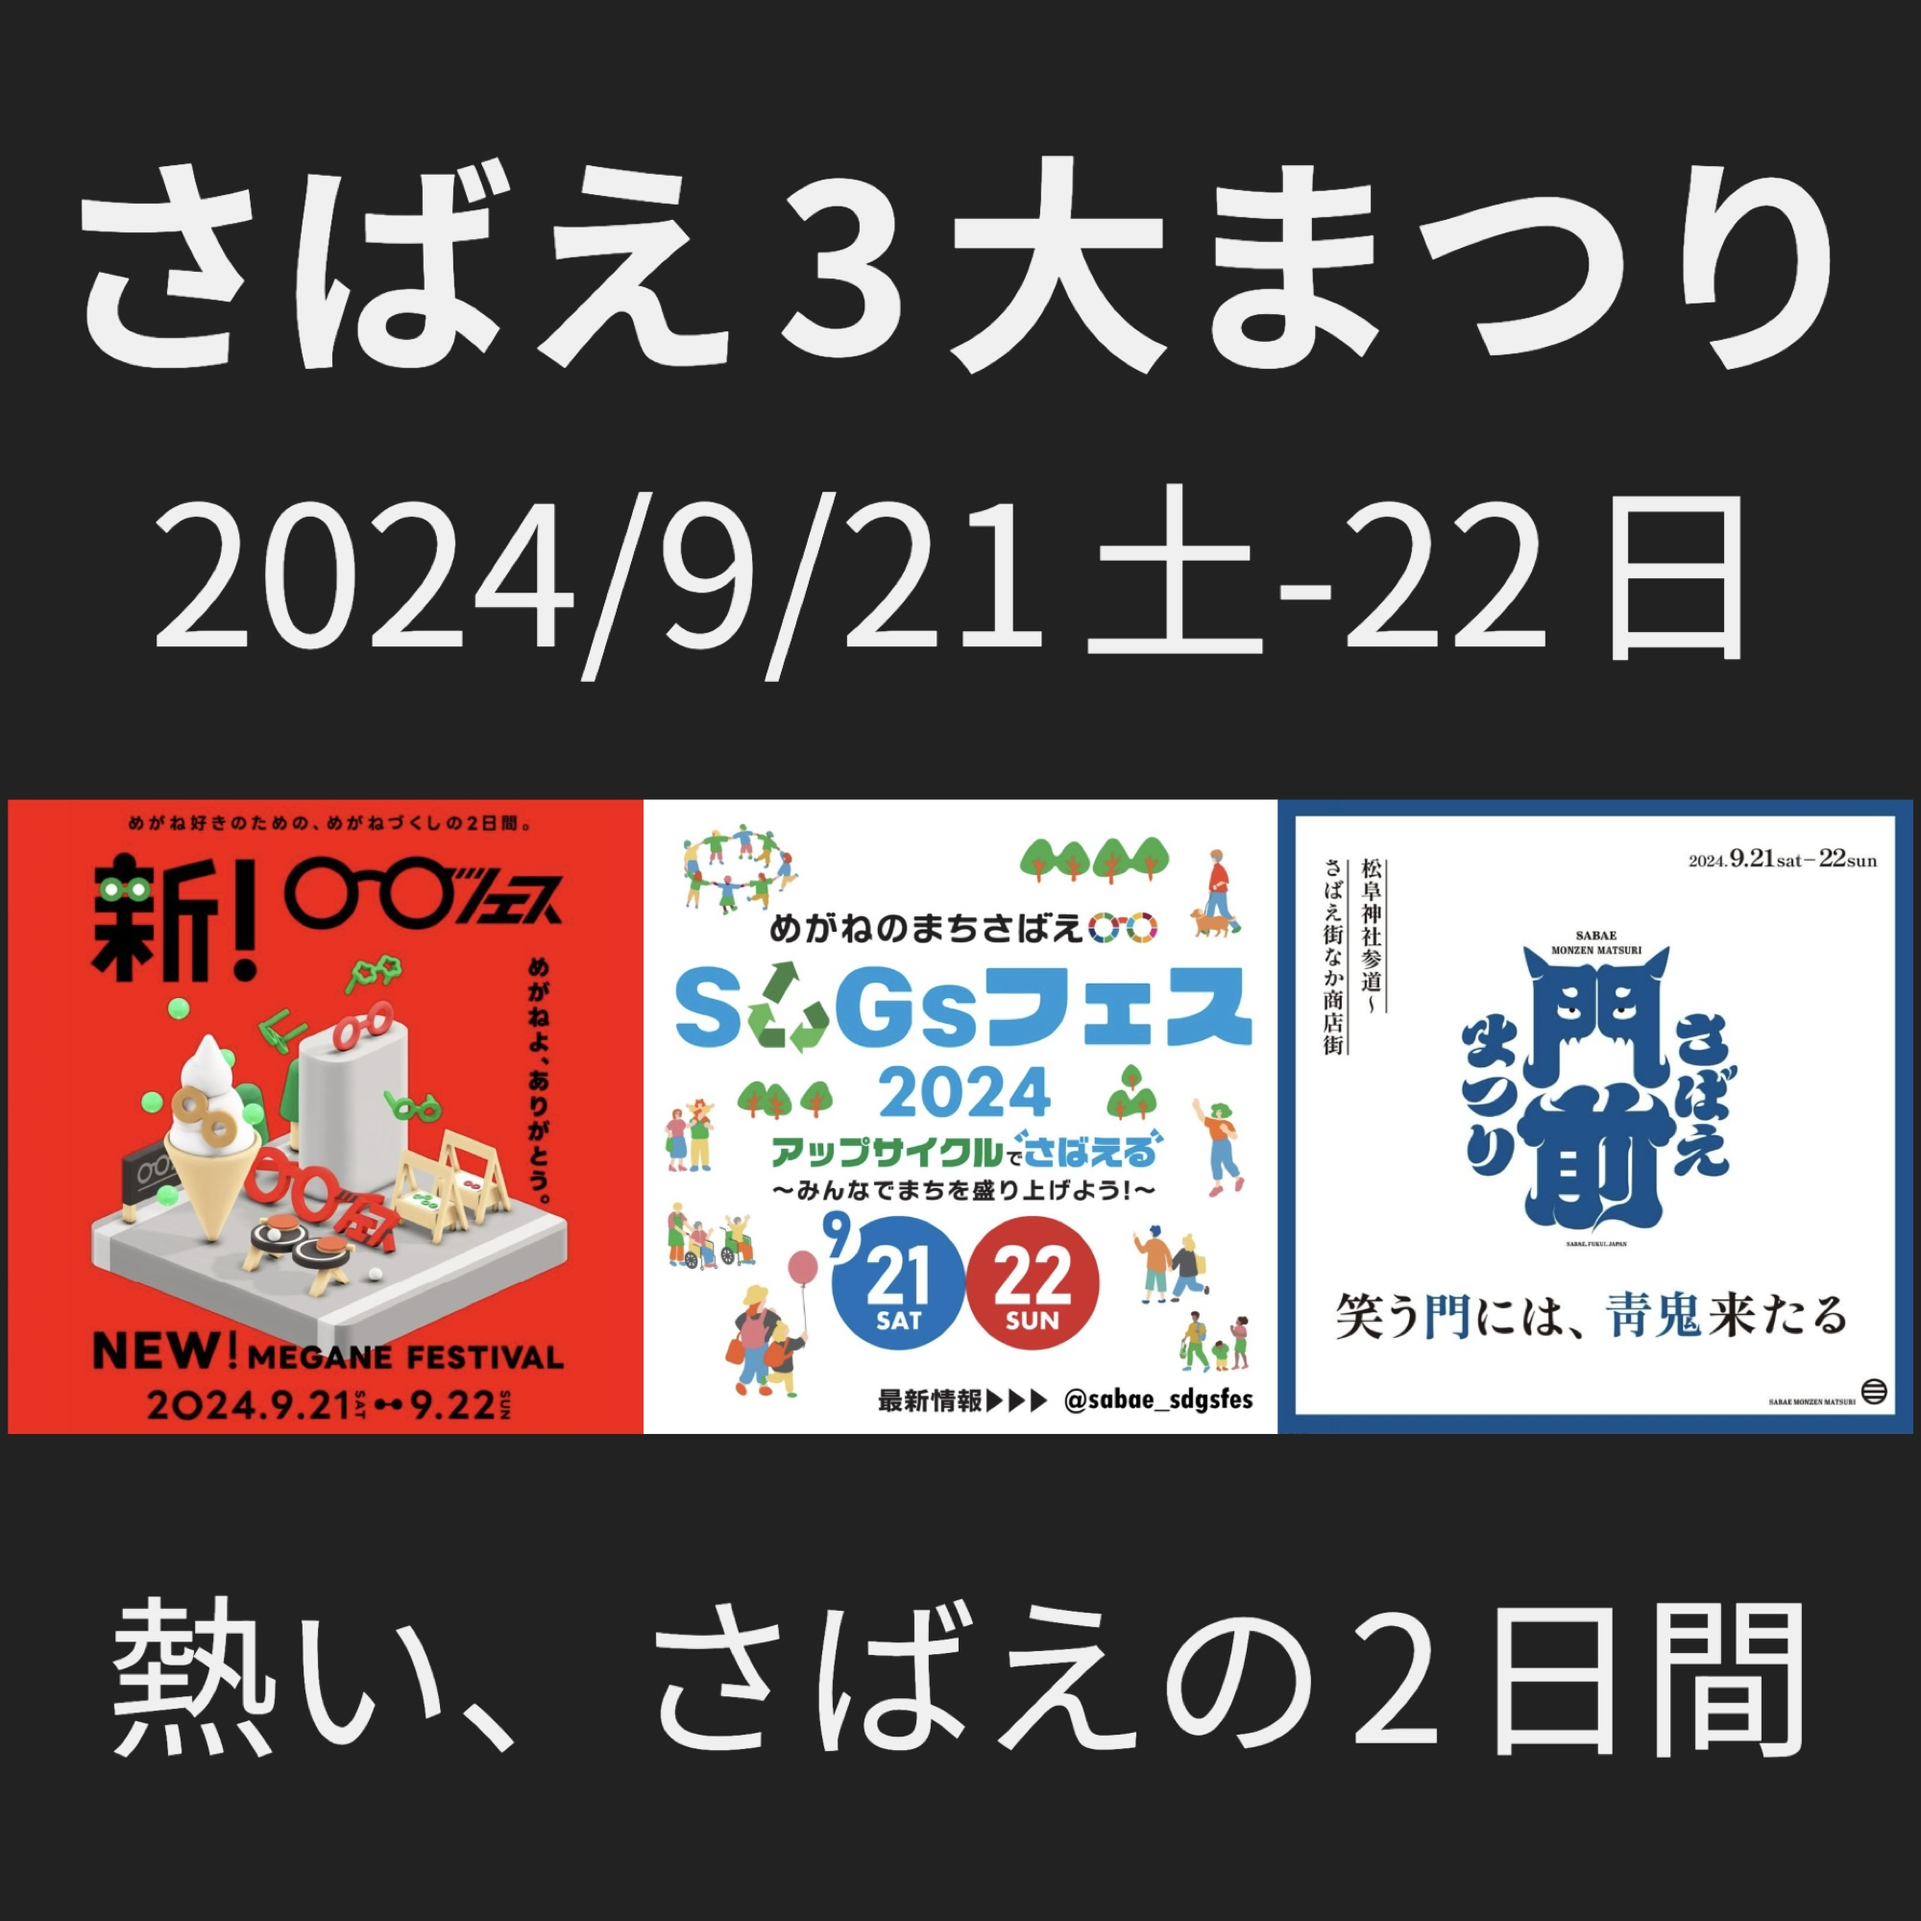
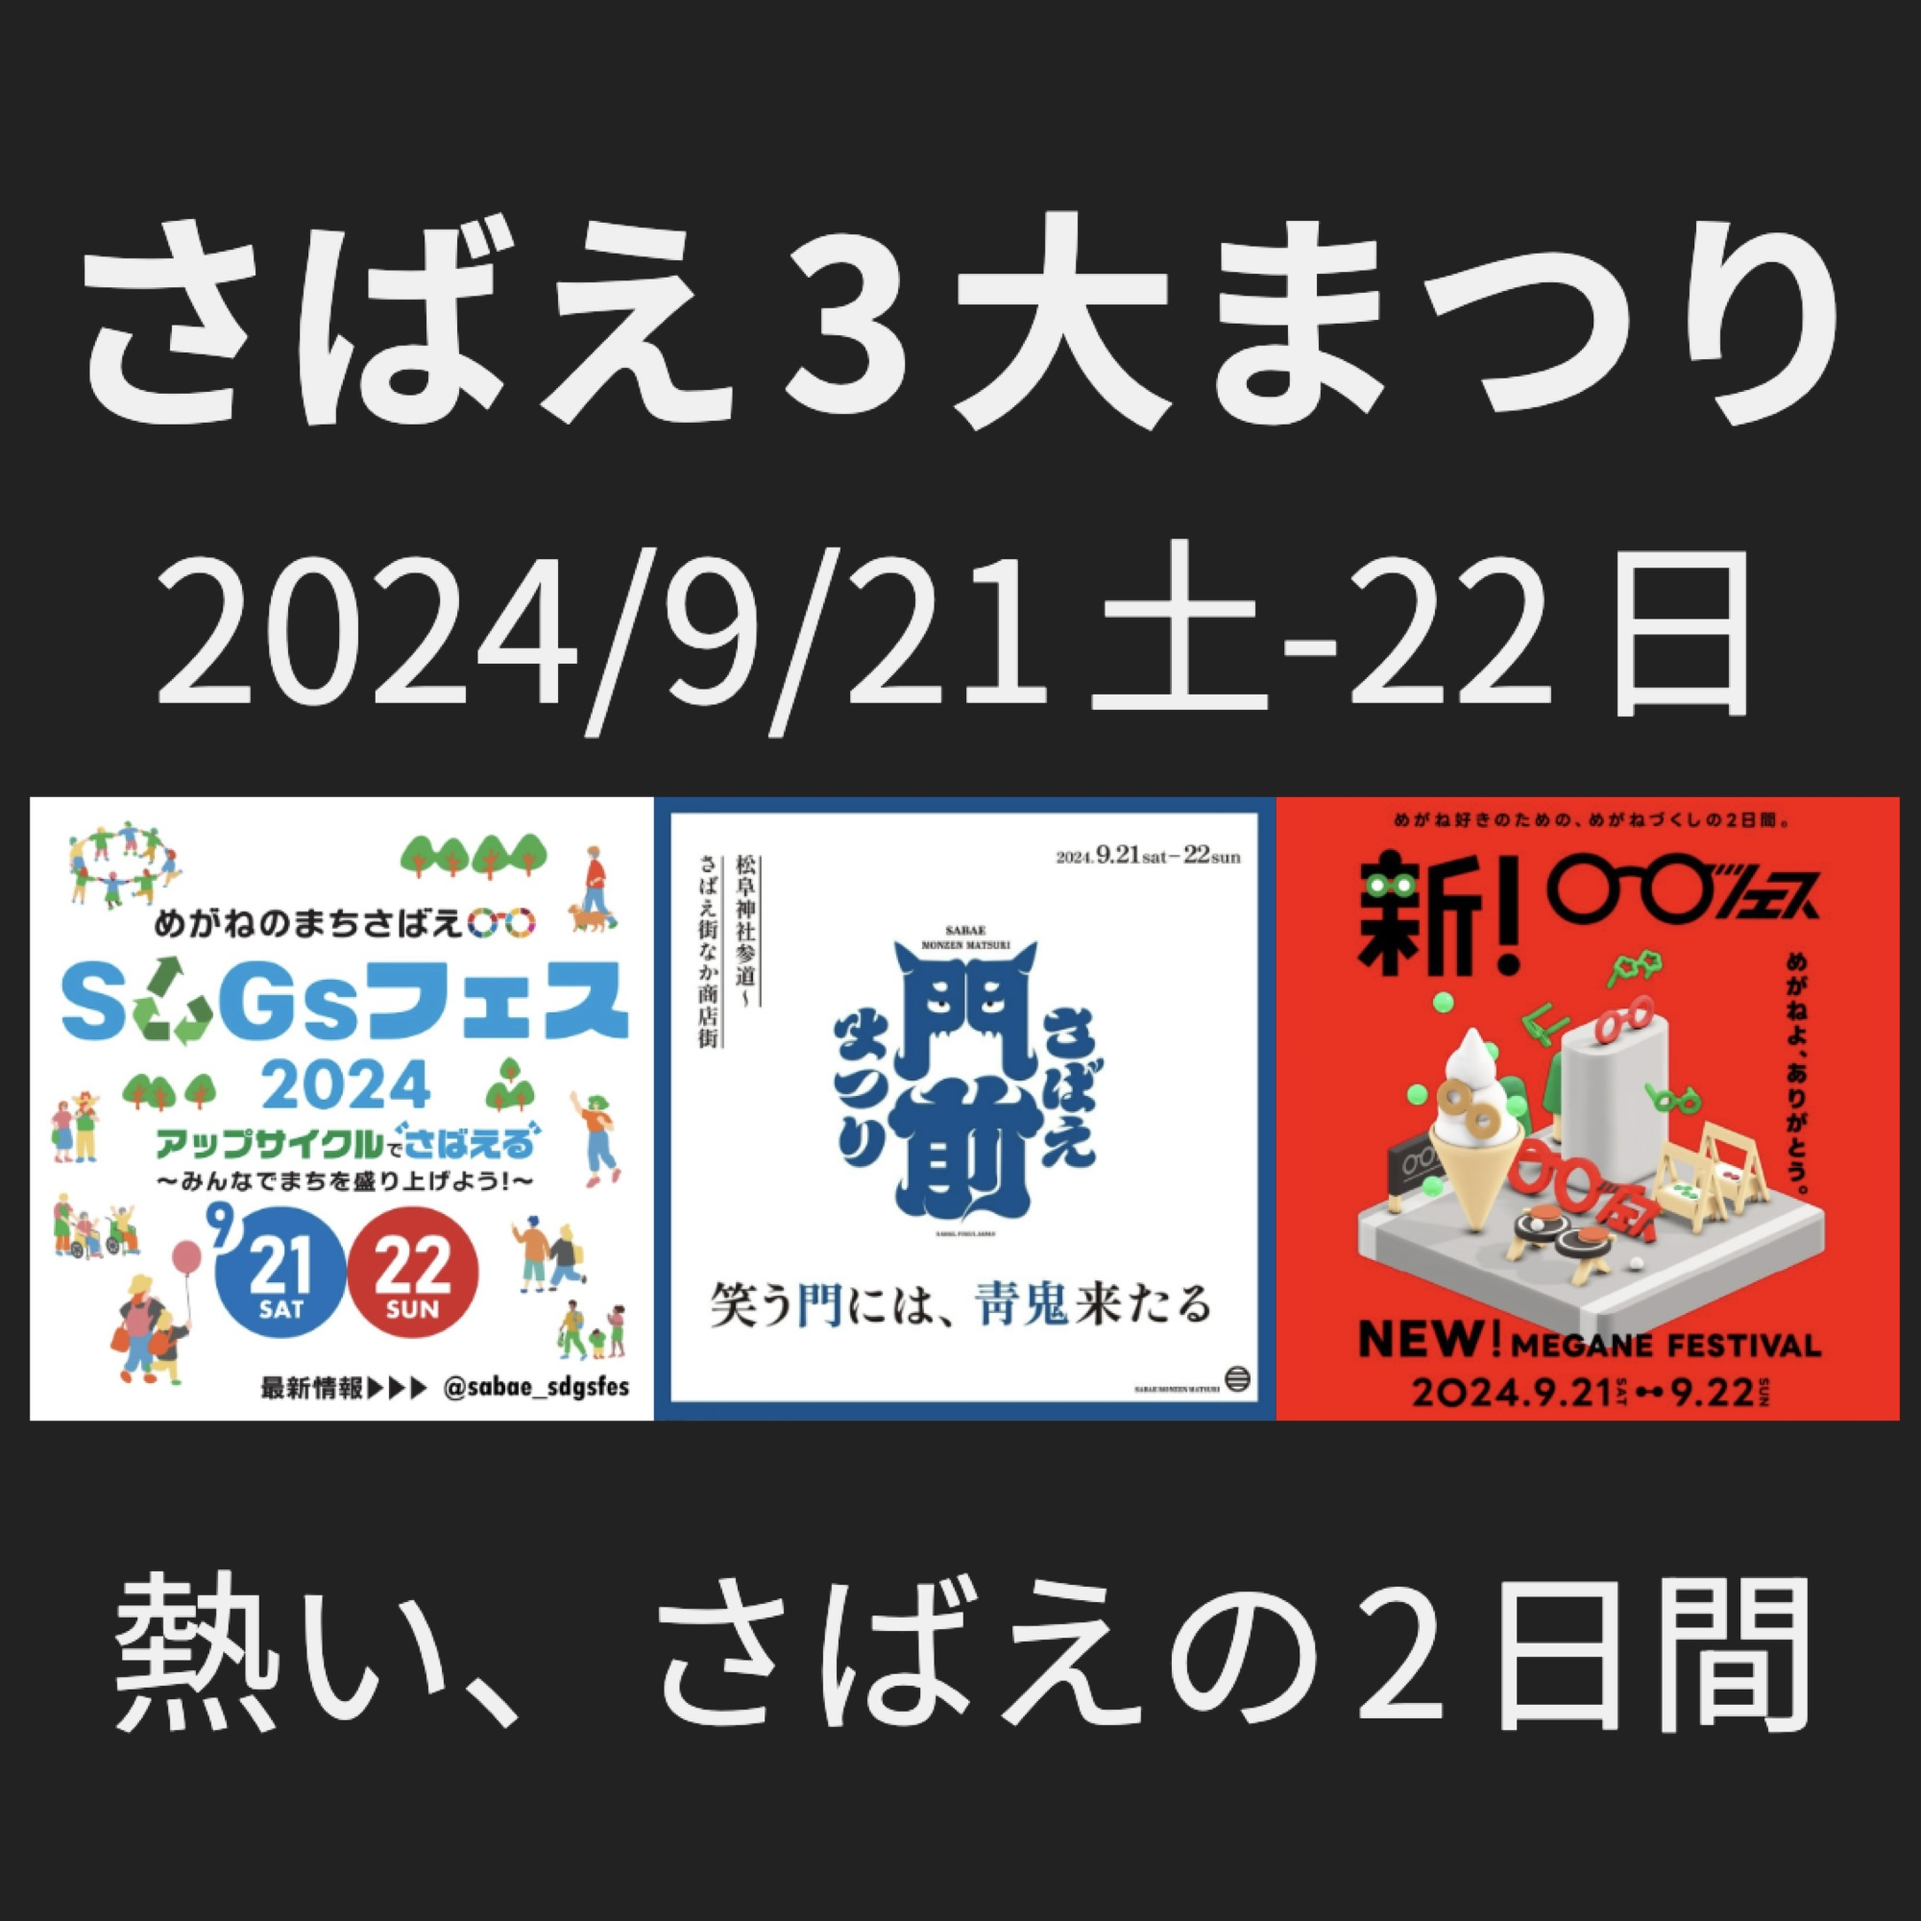
add booth opendata

diff --git a/index.html b/index.html
@@ -15,12 +15,21 @@
 <div class=date>2024/9/21土-22日</div>
 
 <div class=divimgs>
-  <a target=_blank href=https://www.instagram.com/meganefes/><img src=meganefes.jpg></a>
-  <a target=_blank href=https://www.instagram.com/sabae_sdgsfes/><img src=sdgsfes.jpg></a>
-  <a target=_blank href=https://www.instagram.com/sabaemonzenmatsuri/><img src=monzenfes.jpg></a>
+  <a target=_blank href=https://www.instagram.com/sabae_sdgsfes/><img src=sdgsfes.jpg title=めがねのまちさばえSDGsフェス></a>
+  <a target=_blank href=https://www.instagram.com/sabaemonzenmatsuri/><img src=monzenfes.jpg title=さばえ門前まつり></a>
+  <a target=_blank href=https://www.instagram.com/meganefes/><img src=meganefes.jpg title=めがねフェス></a>
 </div>
 
 <div class=footer>熱い、さばえの2日間</div>
+
+<script type="module" src="https://js.sabae.cc/csv-map.js"></script>
+<csv-map src="./index.csv" grayscale=true></csv-map>
+
+<!--
+<script type="module" src="https://code4sabae.github.io/js/csv-viewer.js"></script>
+<csv-viewer id=csvbooth></csv-viewer>
+-->
+<div id=divbooth></div>
 
 <div class=codefor><div>さばえ3大まつりをPRしよう！</div>
 <script type="module" src="https://js.sabae.cc/QRCode.js"></script>
@@ -30,6 +39,35 @@ website by <a href=https://github.com/code4sabae/fes.sabae.cc/>Code for Sabae</a
 </div>
 
 <script type="module">
+import { CSV } from "https://code4fukui.github.io/CSV/CSV.js";
+import { shuffle } from "https://js.sabae.cc/shuffle.js";
+import { ArrayUtil } from "https://js.sabae.cc/ArrayUtil.js";
+
+const index = await CSV.fetchJSON("./index.csv");
+const list = [];
+for (const item of index) {
+  const booth = await CSV.fetchJSON(item.booth);
+  //console.log(booth, item);
+  booth.forEach(i => {
+    i.fes = item.name;
+    list.push(i)
+  });
+}
+//csvbooth.value = list;
+const types = ArrayUtil.toUnique(list.map(i => i.type));
+for (const type of types) {
+  const div = document.createElement("div");
+  divbooth.appendChild(div);
+  const h3 = document.createElement("h3");
+  h3.textContent = type;
+  div.appendChild(h3);
+  const list2 = list.filter(i => i.type == type);
+  shuffle(list2);
+  const div2 = document.createElement("div");
+  div2.textContent = list2.map(i => i.name).join(" / ");
+  div.appendChild(div2);
+}
+
 inurl.onclick = () => {
   inurl.select();
   document.execCommand("copy");
@@ -39,7 +77,9 @@ inurl.onclick = () => {
 <style>
 @import url(http://fonts.googleapis.com/earlyaccess/notosansjp.css);
 body {
-  margin: 5vh 0;
+  margin: 1vh 0;
+  /* */
+  margin: 1vh;
   padding: 0;
   text-align: center;
   background-color: #222;
@@ -58,16 +98,22 @@ h1 {
 }
 .footer {
   font-size: 9vw;
-  margin: 0;
+  margin: 2vw;
   padding: 0;
 }
 .divimgs {
   display: inline-grid;
   grid-template-columns: 1fr 1fr 1fr;
-  margin: 5vw 0;
+  margin: 2vw 0;
 }
 .divimgs img {
   width: 100%;
+}
+#divbooth {
+  margin: 2vw .5em;
+}
+csv-map > div {
+  height: 50vw !important;
 }
 .codefor {
   margin-top: 5vw;
@@ -80,7 +126,7 @@ h1 {
   padding: .3em;
   font-size: 110%;
 }
-a {
+.codefor a {
   color: white !important;
 }
 </style>
